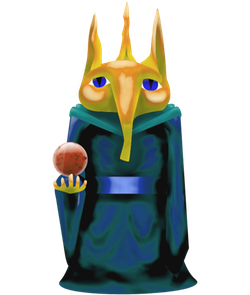
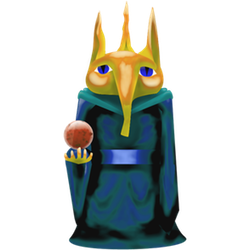
FIXED: Meanie enemy sprite so he is not as tall in the battle view.

Changed region(s): [[0.196, 0.028, 0.812, 1.0], [0.476, 0.028, 0.532, 0.196], [0.56, 0.896, 0.588, 0.924]]

diff --git a/Map/Controller/MapViewController.m b/Map/Controller/MapViewController.m
@@ -693,7 +693,9 @@
 	[hero setGlovePower:hero.glovePower+15];
 	
 	// TODO: EnemyMapSpawn in the future should dictate the enemy the hero is fighting, but for now let's make a random enemy:
-	self.battleViewController.battle.enemy = [[RQModelController defaultModelController] randomEnemyBasedOnHero:hero];
+	RQEnemy *enemy = [[RQModelController defaultModelController] randomEnemyBasedOnHero:hero];
+	self.battleViewController.battle.enemy = enemy;
+	
 	[[UIApplication sharedApplication] setStatusBarHidden:YES withAnimation:UIStatusBarAnimationFade];
 	[self presentModalViewController:self.battleViewController animated:YES];
 	//	self.battleViewController.view.frame = CGRectMake(0, -1.0f*self.view.frame.size.height, self.view.frame.size.width, self.view.frame.size.height);
